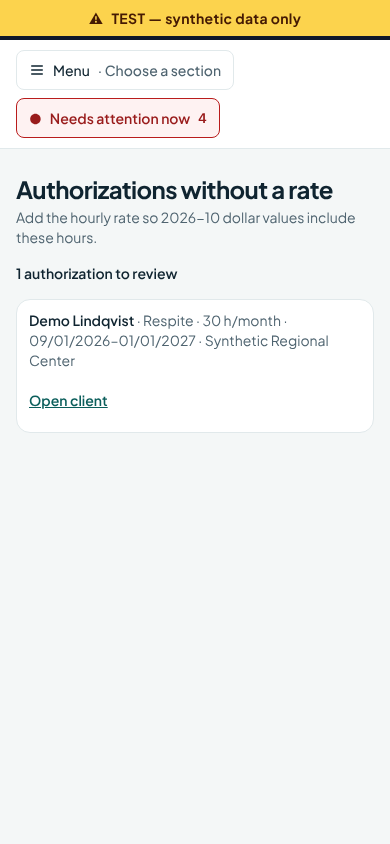
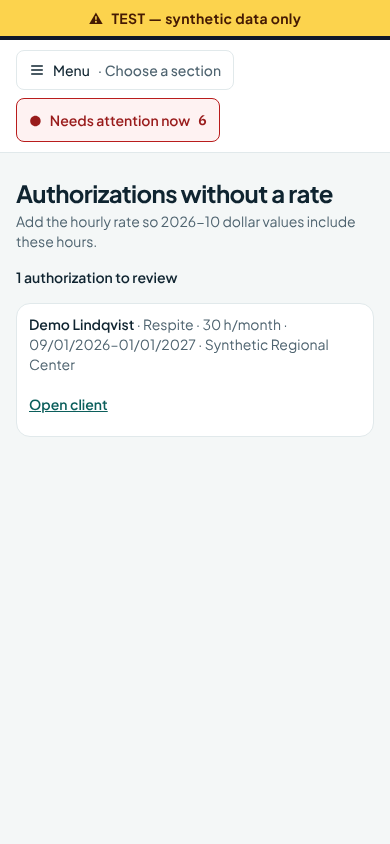
Urgent window 48 hours (D10); per-user appearance storage tests; theme fixes for dark fields, accent text, secondary grey; 44 px touch targets
Claude-Session: https://claude.ai/code/session_0159XSXQ6rHrTFsPALQfqJs3

diff --git a/infra/aws/db/test/attention-streams.db.test.ts b/infra/aws/db/test/attention-streams.db.test.ts
@@ -1,5 +1,5 @@
 // 0054 Attention streams, appearance preferences and the authorizations-missing-a-rate list. SYNTHETIC data only.
-// The 24-hour urgency window is an implementation assumption pending owner review (get_attention_overview, p_urgent_hours).
+// The urgent window is 48 hours (owner decision D10; get_attention_overview, p_urgent_hours).
 import { afterAll, beforeAll, describe, expect, it } from "vitest";
 import { ageVisit, api, asActor, createTestDb, expectPgError, freshClient, orgToday, seedWorld, type Actor, type TestDb, type World } from "./harness.js";
 
@@ -11,7 +11,7 @@ let recA2: string;
 
 const q = (sql: string, params: unknown[] = []) => db.admin.query(sql, params);
 const call = <T = any>(a: Actor, sql: string, params: unknown[] = []) => asActor(db, a.sub, async (c) => (await c.query(sql, params)).rows as any[] as T[]);
-const overview = (a: Actor = w.managerA, hours = 24, org = w.orgA) => call(a, "select ogevia_api.get_attention_overview($1,$2) as o", [org, hours]).then((r) => r[0].o);
+const overview = (a: Actor = w.managerA, hours = 48, org = w.orgA) => call(a, "select ogevia_api.get_attention_overview($1,$2) as o", [org, hours]).then((r) => r[0].o);
 const recOf = async (a: Actor) => (await q("select id from ogevia.caregiver_records where linked_user_id = $1", [a.userId])).rows[0].id as string;
 
 beforeAll(async () => {
@@ -50,13 +50,13 @@ const wipeShifts = async () => {
 };
 
 describe("uncovered shifts: urgent inside the window, upcoming after it, ordered by date", () => {
-  it("classifies by the 24-hour window and orders the upcoming list soonest first", async () => {
+  it("classifies by the 48-hour window and orders the upcoming list soonest first", async () => {
     await wipeShifts();
     const inside = await shiftAt(5, 3, null);
-    const edgeIn = await shiftAt(23.5, 2, null);
-    const edgeOut = await shiftAt(24.5, 2, null);
+    const edgeIn = await shiftAt(47.5, 2, null);
+    const edgeOut = await shiftAt(48.5, 2, null);
     const later = await shiftAt(200, 3, null);
-    const soon = await shiftAt(49, 3, null);
+    const soon = await shiftAt(60, 3, null);
     const covered = await shiftAt(6, 2, recA1); // covered: in neither stream
     const o = await overview();
     const urgentIds = o.urgent.items.filter((i: any) => i.kind === "shift").map((i: any) => i.id);
@@ -66,16 +66,16 @@ describe("uncovered shifts: urgent inside the window, upcoming after it, ordered
     expect(o.upcoming.count).toBe(3);
     expect(o.upcoming.shifts.map((s: any) => s.shiftId)).toEqual([edgeOut, soon, later]); // soonest first
     expect(o.upcoming.nextStartsAt).toBe(o.upcoming.shifts[0].startsAt);
-    // the window is a parameter, not a constant: 48 hours moves the 24.5 and 49-hour shifts accordingly
-    const wide = await overview(w.managerA, 48);
-    expect(wide.urgent.items.filter((i: any) => i.kind === "shift")).toHaveLength(3);
-    expect(wide.upcoming.count).toBe(2);
-    expect(o.urgentWindowHours).toBe(24);
+    // the window is a parameter, not a constant: 72 hours moves the 48.5 and 60-hour shifts into urgent
+    const wide = await overview(w.managerA, 72);
+    expect(wide.urgent.items.filter((i: any) => i.kind === "shift")).toHaveLength(4);
+    expect(wide.upcoming.count).toBe(1);
+    expect(o.urgentWindowHours).toBe(48);
   });
 
   it("a called-out shift with no replacement is uncovered; a shift already running and uncovered is urgent and marked in progress", async () => {
     await wipeShifts();
-    const called = await shiftAt(30, 3, recA2, { calledOut: true });
+    const called = await shiftAt(60, 3, recA2, { calledOut: true });
     const running = await shiftAt(-1, 3, null);
     const o = await overview();
     const runningItem = o.urgent.items.find((i: any) => i.id === running);
@@ -222,6 +222,36 @@ describe("appearance: agency defaults, personal overrides, isolation", () => {
     await expectPgError(call(w.ownerA, "select ogevia_api.set_organization_appearance($1,'neon',null,null,null,null)", [w.orgA]), "OGV22");
     await expectPgError(call(w.caregiverA1, "select ogevia_api.set_my_appearance($1,null,'#ff0000',null,null,null)", [w.orgA]), "OGV22");
     await expectPgError(call(w.caregiverA1, "select ogevia_api.set_my_appearance($1,null,null,null,null,'pie')", [w.orgA]), "OGV22");
+  });
+});
+
+describe("appearance storage: one row per person per agency, nothing shared", () => {
+  it("a personal choice is stored under (agency, that person) only; it cannot name another user, and direct table access is denied to the app role", async () => {
+    await call(w.managerA, "select ogevia_api.set_my_appearance($1,'gray','plum','compact','large','line')", [w.orgA]);
+    const rows = (await q("select user_id, organization_id, background from ogevia.user_appearance where organization_id = $1 and background is not null", [w.orgA])).rows;
+    expect(rows).toEqual([{ user_id: w.managerA.userId, organization_id: w.orgA, background: "gray" }]);
+    // the setter takes no user argument: the person is the signed-in actor
+    const args = (await q("select pg_get_function_identity_arguments(p.oid) a from pg_proc p join pg_namespace n on n.oid = p.pronamespace where n.nspname = 'ogevia_api' and p.proname = 'set_my_appearance'")).rows[0].a as string;
+    expect(args).not.toMatch(/user/);
+    // the application role has no direct access to either table (functions only)
+    await expectPgError(call(w.caregiverA1, "select * from ogevia.user_appearance"), "42501");
+    await expectPgError(call(w.caregiverA1, "update ogevia.user_appearance set background = 'dark'"), "42501");
+  });
+
+  it("changing one person or the agency default never rewrites another person's saved choice; the other agency is untouched", async () => {
+    const before = (await q("select user_id, background, accent from ogevia.user_appearance where organization_id = $1 order by user_id", [w.orgA])).rows;
+    await call(w.ownerA, "select ogevia_api.set_organization_appearance($1,'light','rust',null,null,null)", [w.orgA]);
+    await call(w.caregiverA2, "select ogevia_api.set_my_appearance($1,'dark',null,null,null,null)", [w.orgA]);
+    const after = (await q("select user_id, background, accent from ogevia.user_appearance where organization_id = $1 order by user_id", [w.orgA])).rows;
+    // the manager's row is unchanged by the agency default and by the caregiver's change
+    expect(after.find((r) => r.user_id === w.managerA.userId)).toEqual(before.find((r) => r.user_id === w.managerA.userId));
+    expect((await call(w.managerA, "select ogevia_api.get_appearance($1) as a", [w.orgA]))[0].a.effective).toMatchObject({ background: "gray", accent: "plum" });
+    expect((await call(w.caregiverA1, "select ogevia_api.get_appearance($1) as a", [w.orgA]))[0].a.effective).toMatchObject({ background: "light", accent: "rust" });
+    // agency B has no rows and no default, and agency A's administrator cannot write there
+    expect((await q("select count(*)::int n from ogevia.user_appearance where organization_id = $1", [w.orgB])).rows[0].n).toBe(0);
+    expect((await q("select count(*)::int n from ogevia.organization_appearance where organization_id = $1", [w.orgB])).rows[0].n).toBe(0);
+    await expectPgError(call(w.ownerA, "select ogevia_api.set_organization_appearance($1,'dark',null,null,null,null)", [w.orgB]), "OGN04");
+    await expectPgError(call(w.managerB, "select ogevia_api.set_organization_appearance($1,'dark',null,null,null,null)", [w.orgA]), "OGN04");
   });
 });
 

diff --git a/apps/web/src/aws/documents-page.tsx b/apps/web/src/aws/documents-page.tsx
@@ -70,7 +70,7 @@ function UploadForm({ doc, onDone }: { doc: StaffDocument; onDone: () => void })
         </label>
       </div>
       {state.error ? <p role="alert" className="text-sm text-red-700">{state.error}</p> : null}
-      <Button type="submit" disabled={state.busy}>{state.busy ? "Uploading… keep this page open" : "Upload"}</Button>
+      <Button type="submit" className="min-h-[44px] md:min-h-[40px]" disabled={state.busy}>{state.busy ? "Uploading… keep this page open" : "Upload"}</Button>
     </form>
   );
 }
@@ -91,7 +91,7 @@ function OpenFileButton({ versionId }: { versionId: string }) {
   }
   return (
     <div>
-      <button type="button" onClick={() => void open()} disabled={state.busy} className="min-h-[40px] rounded-lg border border-slate-300 px-3 text-sm font-medium text-slate-800">
+      <button type="button" onClick={() => void open()} disabled={state.busy} className="min-h-[44px] rounded-lg border border-og-line px-3 text-sm font-medium text-og-ink hover:bg-og-page md:min-h-[40px]">
         {state.busy ? "Opening…" : "View"}
       </button>
       {state.error ? <p role="alert" className="mt-1 text-sm text-red-700">{state.error}</p> : null}
@@ -132,8 +132,8 @@ function ReviewControls({ doc, selfReview, onDone }: { doc: StaffDocument; selfR
       </label>
       {state.error ? <p role="alert" className="text-sm text-red-700">{state.error}</p> : null}
       <div className="flex flex-wrap gap-2">
-        <Button type="button" disabled={state.busy} onClick={() => void decide("verified")}>Verify</Button>
-        <Button type="button" variant="secondary" disabled={state.busy} onClick={() => void decide("rejected")}>Reject</Button>
+        <Button type="button" className="min-h-[44px] md:min-h-[40px]" disabled={state.busy} onClick={() => void decide("verified")}>Verify</Button>
+        <Button type="button" variant="secondary" className="min-h-[44px] md:min-h-[40px]" disabled={state.busy} onClick={() => void decide("rejected")}>Reject</Button>
       </div>
     </div>
   );
@@ -408,7 +408,7 @@ export function DocumentsPage() {
       {canRead ? (
         <div className="flex flex-wrap gap-2" role="group" aria-label="Show">
           {FILTERS.map((f) => (
-            <button key={f.key} type="button" aria-pressed={filter === f.key} onClick={() => setFilter(f.key)} className={`min-h-[44px] rounded-lg px-3 text-sm font-medium md:min-h-[40px] ${filter === f.key ? "bg-og-accent text-white" : "border border-og-line text-og-ink hover:bg-og-page"}`}>
+            <button key={f.key} type="button" aria-pressed={filter === f.key} onClick={() => setFilter(f.key)} className={`min-h-[44px] rounded-lg px-3 text-sm font-medium md:min-h-[40px] ${filter === f.key ? "bg-og-accent text-og-on-accent" : "border border-og-line text-og-ink hover:bg-og-page"}`}>
               {f.label} <span className="font-og-mono tabular-nums">{counts[f.key]}</span>
             </button>
           ))}

diff --git a/apps/web/src/aws/aws-shell.tsx b/apps/web/src/aws/aws-shell.tsx
@@ -235,7 +235,7 @@ export function AwsShell({ children }: PropsWithChildren) {
         <div className={cn("flex items-center gap-2 px-3 pb-2 pt-4", collapsed ? "flex-col" : "justify-between")}>
           <div className="flex min-w-0 items-center gap-2">
             {/* No Ogevia logo image exists in the repository: the wordmark is text. */}
-            <span aria-hidden="true" className="flex h-9 w-9 shrink-0 items-center justify-center rounded-lg bg-og-link text-base font-bold text-white">O</span>
+            <span aria-hidden="true" className="flex h-9 w-9 shrink-0 items-center justify-center rounded-lg bg-og-link text-base font-bold text-og-on-accent">O</span>
             <span className={cn("truncate text-lg font-bold tracking-tight text-og-ink", collapsed && "sr-only")}>Ogevia</span>
           </div>
           {isMobile ? (
@@ -388,7 +388,7 @@ export function AwsShell({ children }: PropsWithChildren) {
               <Link
                 to="/attention"
                 className={cn(
-                  "inline-flex min-h-[40px] items-center gap-2 rounded-lg border px-3 text-sm font-semibold focus-visible:outline focus-visible:outline-2 focus-visible:outline-offset-2 focus-visible:outline-og-link",
+                  "inline-flex min-h-[44px] items-center gap-2 rounded-lg border px-3 text-sm font-semibold md:min-h-[40px] focus-visible:outline focus-visible:outline-2 focus-visible:outline-offset-2 focus-visible:outline-og-link",
                   badge.tone === "red" && "border-red-700 bg-red-50 text-red-800 hover:bg-red-100",
                   badge.tone === "amber" && "border-amber-600 bg-amber-50 text-amber-900 hover:bg-amber-100",
                   badge.tone === "neutral" && "border-og-line text-og-ink hover:bg-og-page",

diff --git a/apps/web/src/aws/appearance/appearance-page.tsx b/apps/web/src/aws/appearance/appearance-page.tsx
@@ -36,7 +36,7 @@ function ChoiceForm({ level, current, defaultLabel }: { level: "me" | "organizat
             {[null, ...g.options].map((v) => {
               const selected = (draft[g.key] ?? null) === v;
               return (
-                <label key={v ?? "default"} className={"og-row inline-flex min-h-[40px] cursor-pointer items-center gap-2 rounded-lg border px-3 text-sm focus-within:outline focus-within:outline-2 focus-within:outline-og-accent " + (selected ? "border-og-accent bg-og-active font-semibold text-og-ink" : "border-og-line bg-og-card text-og-ink")}>
+                <label key={v ?? "default"} className={"og-row inline-flex min-h-[44px] cursor-pointer md:min-h-[40px] items-center gap-2 rounded-lg border px-3 text-sm focus-within:outline focus-within:outline-2 focus-within:outline-og-accent " + (selected ? "border-og-accent bg-og-active font-semibold text-og-ink" : "border-og-line bg-og-card text-og-ink")}>
                   <input
                     type="radio"
                     className="sr-only"
@@ -56,7 +56,7 @@ function ChoiceForm({ level, current, defaultLabel }: { level: "me" | "organizat
       ))}
       {save.isError ? <p role="alert" className="text-sm text-red-700">{actionError(save.error, "The appearance could not be saved.")}</p> : null}
       <div className="flex flex-wrap items-center gap-3">
-        <Button type="submit" disabled={!dirty || save.isPending}>{save.isPending ? "Saving…" : "Save"}</Button>
+        <Button type="submit" className="min-h-[44px] md:min-h-[40px]" disabled={!dirty || save.isPending}>{save.isPending ? "Saving…" : "Save"}</Button>
         {save.isSuccess && !dirty ? <p role="status" className="text-sm text-og-sub">Saved.</p> : null}
       </div>
     </form>

diff --git a/apps/web/src/aws/attention.ts b/apps/web/src/aws/attention.ts
@@ -1,6 +1,6 @@
 // Attention by purpose (migration 0054). One read-only classification from the server, shown as four destinations:
 //   Needs attention now | Upcoming staffing | Documents & compliance | Visit review
-// IMPLEMENTATION ASSUMPTION FOR OWNER REVIEW: "now" means starting or running within 24 hours (the server's default window).
+// "Now" means starting or running within 48 hours: owner decision D10 (the server's default window).
 // Colour means one thing everywhere: red = care is blocked or at risk now; amber = risk is approaching; neutral = routine work.
 // Colour is never the only signal: every tone has a word and a symbol (TONE below).
 import { useQuery } from "@tanstack/react-query";
@@ -8,7 +8,7 @@ import { useOrganization } from "@/providers/organization-provider";
 import { useAwsApi } from "./aws-workspace";
 
 export type Tone = "red" | "amber" | "neutral";
-export const URGENT_WINDOW_HOURS = 24;
+export const URGENT_WINDOW_HOURS = 48;
 
 export interface UrgentItem {
   kind: "shift" | "visit";
@@ -92,7 +92,7 @@ export function streams(o: AttentionOverview, now = Date.parse(o.asOf)): Stream[
     out.push({
       key: "staffing", label: "Upcoming staffing", count: u.count, unit: u.count === 1 ? "uncovered shift" : "uncovered shifts", to: "/staffing",
       tone: u.count > 0 && soon ? "amber" : "neutral",
-      detail: u.count === 0 ? "Every shift after the next 24 hours has a caregiver." : "Later than the next 24 hours, soonest first",
+      detail: u.count === 0 ? "Every shift after the next 48 hours has a caregiver." : "Later than the next 48 hours, soonest first",
     });
   }
   if (o.documents && (o.documents.overdue !== undefined || o.documents.caregiversOnHold !== undefined)) {

diff --git a/apps/web/src/aws/attention-pages.tsx b/apps/web/src/aws/attention-pages.tsx
@@ -69,7 +69,7 @@ export function NeedsAttentionPage() {
         </>
       ) : null}
       <Disclosure summary="How this list is chosen">
-        <p>An item is a shift or a visit, counted once even when it has several issues. Red means care is blocked or at risk now; amber means a risk is approaching. Shifts after the first {hours} hours are under Upcoming staffing. The {hours}-hour window is a provisional setting awaiting owner review.</p>
+        <p>An item is a shift or a visit, counted once even when it has several issues. Red means care is blocked or at risk now; amber means a risk is approaching. Shifts after the first {hours} hours are under Upcoming staffing. The {hours}-hour window is the owner's decision D10.</p>
       </Disclosure>
     </div>
   );
@@ -91,7 +91,7 @@ export function UpcomingStaffingPage() {
   return (
     <div className="space-y-4">
       <PageHeader title="Upcoming staffing" lead={`Shifts after the next ${q.data?.urgentWindowHours ?? URGENT_WINDOW_HOURS} hours that still need a caregiver.`}
-        action={<Link className="inline-flex min-h-[44px] items-center rounded-lg bg-og-accent px-4 text-sm font-semibold text-white hover:opacity-90 md:min-h-[40px]" to="/schedule">Open schedule</Link>} />
+        action={<Link className="inline-flex min-h-[44px] items-center rounded-lg bg-og-accent px-4 text-sm font-semibold text-og-on-accent hover:opacity-90 md:min-h-[40px]" to="/schedule">Open schedule</Link>} />
       <Loading q={q} />
       {q.data && !u ? <p className="text-sm text-og-sub">Your role does not include this list.</p> : null}
       {u ? (

diff --git a/infra/aws/local-harness/seed-extra.ts b/infra/aws/local-harness/seed-extra.ts
@@ -1,7 +1,7 @@
 // LOCAL DEVELOPMENT HARNESS: extra SYNTHETIC data for looking at the alert pages, documents and compliance screens.
 //   pnpm --filter @carelik/infra-aws harness:setup && pnpm --filter @carelik/infra-aws harness:seed-extra
 // Adds, through the real API functions where one exists: CPR/TB rules, documents in every state (due soon, overdue, awaiting review),
-// uncovered shifts at several distances (inside and outside 24 hours), approved background checks, hire dates, and a caregiver on a
+// uncovered shifts at several distances (inside and outside 48 hours), approved background checks, hire dates, and a caregiver on a
 // compliance hold. It refuses any non-local database. Never used by deployed code.
 import { randomUUID } from "node:crypto";
 import pg from "pg";
@@ -86,8 +86,8 @@ async function main() {
   };
   await shiftAt(30, 3, drew); // Drew's shift tomorrow (the hold flags it)
   await shiftAt(50, 3, drew);
-  await shiftAt(4, 4, null); // uncovered, inside 24 hours
-  await shiftAt(20, 3, null); // uncovered, inside 24 hours
+  await shiftAt(4, 4, null); // uncovered, inside 48 hours
+  await shiftAt(20, 3, null); // uncovered, inside 48 hours
   await shiftAt(60, 3, null); // uncovered, day 3
   await shiftAt(120, 4, null); // uncovered, day 5
   await shiftAt(300, 4, null); // uncovered, day 12

diff --git a/apps/web/src/aws/interface-simplification.test.tsx b/apps/web/src/aws/interface-simplification.test.tsx
@@ -57,7 +57,7 @@ function renderApp(path: string, { role, rows = [ROW], appearance, missingRate =
     switch (`${init?.method ?? "GET"} ${url.pathname}`) {
       case "GET /v1/me": return json(200, { memberships: [{ organizationId: ORG, organizationSlug: "a", organizationName: "Synthetic Care Co", organizationTimezone: "America/Los_Angeles", role, permissions: PERMS[role] }], profile: { displayName: "Synthetic Person" } });
       case "GET /v1/branding": return json(200, { branding: { organizationId: ORG, displayName: "Synthetic Care Co", accentColor: null, logoSha256: null } });
-      case "GET /v1/attention/overview": return json(200, { overview: { asOf: "2026-10-18T12:00:00Z", urgentWindowHours: 24,
+      case "GET /v1/attention/overview": return json(200, { overview: { asOf: "2026-10-18T12:00:00Z", urgentWindowHours: 48,
         urgent: { items: [], itemCount: 0, issueCount: 0, shifts: 0, visits: 0 }, upcoming: { count: 0, nextStartsAt: null, shifts: [] },
         documents: { overdue: 2, dueSoon: 1, awaitingReview: 1, rejected: 0, caregiversOnHold: 1, caregiversWithPendingRequirements: 0 },
         visitReview: { visitsNeedingAttention: 0, awaitingConfirmation: 0, needsReview: 0, lateResponses: 0, readyForApproval: null, reviewIssues: 0, awaitingResponse: 0 } } });

diff --git a/apps/sv-api/src/routes.ts b/apps/sv-api/src/routes.ts
@@ -989,13 +989,13 @@ export const ROUTES: Record<string, Route> = {
   },
 
   // Attention by purpose (0054): needs attention now / upcoming staffing / documents & compliance / visit review. One read-only classification
-  // of the same records; a section is null when the viewer may not see it. The 24-hour urgent window is an implementation assumption
-  // pending owner review (default 24; 1 to 168 accepted so the owner can try another value).
+  // of the same records; a section is null when the viewer may not see it. The urgent window is 48 hours (owner decision D10;
+  // default 48; 1 to 168 accepted so a filter such as 24 or 72 hours can be tried).
   "GET /v1/attention/overview": {
     mutating: false,
     handle: async ({ event, tx }) => {
       const raw = q(event).urgentHours;
-      const hours = raw === undefined || raw === "" ? 24 : wholeNumber(Number(raw), "urgentHours", 1, 168);
+      const hours = raw === undefined || raw === "" ? 48 : wholeNumber(Number(raw), "urgentHours", 1, 168);
       return { overview: await tx(async (db) => (await first(db, "select ogevia_api.get_attention_overview($1,$2) as o", [orgParam(event), hours])).o) };
     },
   },

diff --git a/apps/web/src/aws/aws-app.test.tsx b/apps/web/src/aws/aws-app.test.tsx
@@ -57,7 +57,7 @@ function fakeApi(role: "caregiver" | "manager" | "organization_owner", opts: { d
       case "GET /v1/attention":
         return json(200, { summary: role === "caregiver" ? null : { missingTimeOut: 1, notConfirmed: 0, needsReview: 2, billingReadyUnapproved: 1, uncoveredShifts: 0, documentsBlocking: 1, documentsToReview: 1, documentsExpiring: 1, total: 5 } });
       case "GET /v1/attention/overview":
-        return json(200, { overview: { asOf: "2026-10-18T12:00:00Z", urgentWindowHours: 24,
+        return json(200, { overview: { asOf: "2026-10-18T12:00:00Z", urgentWindowHours: 48,
           urgent: { items: [{ kind: "shift", id: "s1", startsAt: "2026-10-18T20:00:00Z", endsAt: "2026-10-18T23:00:00Z", reasons: ["uncovered_open"], severity: "red", inProgress: false, caregiverRecordId: null, caregiverCode: null, clientCode: "C-104", serviceCode: "862" }], itemCount: 1, issueCount: 1, shifts: 1, visits: 0 },
           upcoming: { count: 2, nextStartsAt: "2026-10-21T20:00:00Z", shifts: [] },
           documents: { overdue: 1, dueSoon: 1, awaitingReview: 1, rejected: 0 },

diff --git a/apps/web/src/aws/sidebar-home.test.tsx b/apps/web/src/aws/sidebar-home.test.tsx
@@ -22,7 +22,7 @@ const json = (code: number, body: unknown) => new Response(JSON.stringify(body),
 
 const SUMMARY = { missingTimeOut: 1, notConfirmed: 0, needsReview: 2, lateResponsesToReview: 0, uncoveredShifts: 0, documentsBlocking: 0, documentsToReview: 0, billingReadyUnapproved: 3, awaitingSignature: 0, documentsExpiring: 2, total: 3 };
 const OVERVIEW = {
-  asOf: "2026-10-18T12:00:00Z", urgentWindowHours: 24,
+  asOf: "2026-10-18T12:00:00Z", urgentWindowHours: 48,
   urgent: { items: [{ kind: "visit", id: "v1", startsAt: "2026-10-18T09:00:00Z", endsAt: null, reasons: ["missing_clock_out"], severity: "amber", inProgress: true, caregiverRecordId: null, caregiverCode: null, clientCode: "C-104", serviceCode: "862" }], itemCount: 1, issueCount: 1, shifts: 0, visits: 1 },
   upcoming: { count: 0, nextStartsAt: null, shifts: [] },
   documents: { overdue: 0, dueSoon: 2, awaitingReview: 0, rejected: 0 },

diff --git a/apps/web/src/aws/attention-badge.test.tsx b/apps/web/src/aws/attention-badge.test.tsx
@@ -56,7 +56,7 @@ const json = (code: number, body: unknown) => new Response(JSON.stringify(body),
 const item = (over: Partial<Record<string, unknown>> = {}) => ({ kind: "shift", id: "s1", startsAt: "2026-10-18T20:00:00Z", endsAt: "2026-10-18T23:00:00Z", reasons: ["uncovered_open"], severity: "red", inProgress: false,
   caregiverRecordId: null, caregiverCode: null, clientCode: "C-AAA111", serviceCode: "RSP", ...over });
 const overview = (o: Record<string, unknown> = {}) => ({ overview: {
-  asOf: "2026-10-18T12:00:00Z", urgentWindowHours: 24,
+  asOf: "2026-10-18T12:00:00Z", urgentWindowHours: 48,
   urgent: { items: [], itemCount: 0, issueCount: 0, shifts: 0, visits: 0 },
   upcoming: { count: 0, nextStartsAt: null, shifts: [] },
   documents: { overdue: 0, dueSoon: 0, awaitingReview: 0, rejected: 0, caregiversOnHold: 0, caregiversWithPendingRequirements: 0 },
